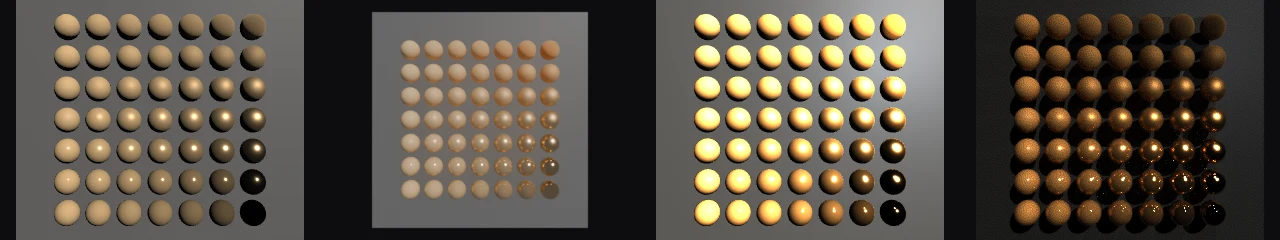
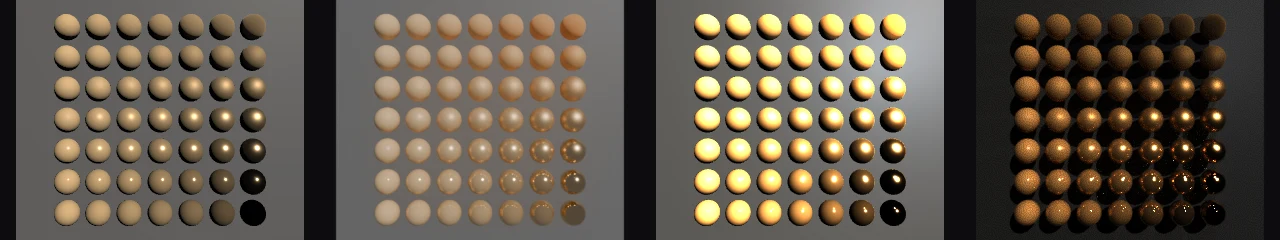
pathtracer: match the Cycles camera to X_ITE (fieldOfView on the vertical axis); e1 now outside the bound
Claude-Session: https://claude.ai/code/session_011hzQR3hNwmq38Q6GNMSks6

Changed region(s): [[0.25, 0.0, 0.5, 1.0]]

diff --git a/x3d.threejs/pathtracer/build_results.py b/x3d.threejs/pathtracer/build_results.py
@@ -24,13 +24,13 @@ for n, sky in SCENES.items():
     if DEMO: os.makedirs(f"{DEMO}/img", exist_ok=True); shutil.copy(f"{OUT}/results/strips/{n}.webp", f"{DEMO}/img/{n}.webp")
 out = {"scenes": res, "metric": "object-pixel FLIP (flip-evaluator 1.7, LDR), mean over pixels where X_ITE or the test picture differs from the sky colour; 320x240", "bound": "max(PT-X, PT-C) <= X-C + 0.05"}
 out["note"] = ("Rig: Chromium 153.0.8010.12 on SwiftShader (software Vulkan, no real GPU), three r187, three-gpu-pathtracer 0.0.28, three-mesh-bvh 0.9.18, X_ITE 16.6.0; Cycles from bpy 5.3.0 on CPU through the x3d.lab Blender worker (256 spp, OpenImageDenoise, film transparent, composited on the sky colour). "
-  "Path tracer 96 spp; two 96 spp runs of the Cornell box differ from each other by 0.055 (noise floor). Pass bound: max(PT-X, PT-C) <= X-C + 0.05, the Unreal lane's tier-1 bound. Cycles frames the first Viewpoint smaller than X_ITE does in these scenes, which inflates every number that involves it.")
+  "Path tracer 96 spp; two 96 spp runs of the Cornell box differ from each other by 0.055 (noise floor). Pass bound: max(PT-X, PT-C) <= X-C + 0.05, the Unreal lane's tier-1 bound. Cycles camera matched to X_ITE: sensor fit vertical, angle = the Viewpoint fieldOfView (cycles_job.py); before that patch Cycles drew a wider view and every Cycles number was inflated (e2 X-C 0.418 -> see table).")
 out["limits"] = [
   "No real-GPU timing: every number here comes from software Vulkan (SwiftShader), about one sample per second at 320 x 240. The samples per second this page shows are your own device's.",
   "The path tracer is a reference for light transport, not for X3D semantics: it has no ambient term, ignores the X3D radius cut-off, and turns every emissive surface into a lamp. X_ITE does none of that, so the two are expected to disagree there.",
   "Classic Material (Phong) surfaces are converted to rough dielectrics with diffuse x pi so they land on rho x I under pbr lights; that is a fit, and the indirect light they return is exaggerated by the same factor.",
   "FLIP here is object-pixel LDR FLIP on 8-bit pictures with no tone mapping, the same recipe as the Unreal lane's cell 10c; it says how far two pictures are, not which is right.",
-  "Cycles framing differs from X_ITE's, so the spread X-C is wider than the lighting alone would make it and the pass bound is looser than it looks. A Cycles run with an exact camera match is not done.",
+  "The Cycles camera is matched to X_ITE's vertical field of view (cycles_job.py patches one line of the Blender worker in memory); Cycles still goes through Blender's default view transform, which the X_ITE and path-traced pictures do not have, and that offset is not isolated.",
   "One camera per scene, one run per cell except the noise-floor pair; no confidence intervals."]
 json.dump(out, open(f"{OUT}/results/results.json", "w"), indent=1); shutil.rmtree(tmp); print(json.dumps(res, indent=1))
 

diff --git a/x3d.threejs/pathtracer/cycles_job.py b/x3d.threejs/pathtracer/cycles_job.py
@@ -1,0 +1,19 @@
+#!/usr/bin/env python3
+"""Run x3d.lab's Blender worker (render task) on the Leg E scenes with the camera matched to X_ITE.
+usage: cycles_job.py LAB_WORKER.py ADDON_SRC OUTDIR [SAMPLES]   (python with bpy, e.g. a venv with `pip install bpy`)
+The worker is read, not edited: one line is patched in memory. Why: the add-on sets the Blender camera from an X3D fieldOfView at the 16:9 default resolution; rendering at 320x240 then keeps the
+HORIZONTAL angle and widens the vertical one (e3: 0.7854 rad asked, 0.9127 drawn). X3D fieldOfView applies to the smaller picture axis (19775-1 23.4.2), vertical at 4:3, so the patch sets sensor_fit VERTICAL and angle = fieldOfView."""
+import sys, re, json, os, subprocess, tempfile
+WORKER, ADDON, OUT = sys.argv[1:4]; SAMPLES = int(sys.argv[4]) if len(sys.argv) > 4 else 256
+HERE = os.path.dirname(os.path.abspath(__file__)); SC = os.path.join(HERE, "scenes")
+src = open(WORKER).read(); old = 'framing = frame_camera(scn, t.get("camera", "viewpoint") == "viewpoint")'
+assert old in src, "worker line not found: update cycles_job.py"
+new = old + '\n    if t.get("fov") and scn.camera is not None:\n        scn.camera.data.sensor_fit = "VERTICAL"; scn.camera.data.angle = float(t["fov"])'
+work = tempfile.mkdtemp(); w = os.path.join(work, "worker.py"); open(w, "w").write(src.replace(old, new))
+os.makedirs(OUT, exist_ok=True); tasks = []
+for n in ["e1-pbr-grid", "e2-cornell-box", "e3-light-ladder"]:
+    fov = float(re.search(r'<Viewpoint[^>]*fieldOfView="([^"]+)"', open(f"{SC}/{n}.x3d").read()).group(1))
+    tasks.append({"id": n, "kind": "render", "src": f"{SC}/{n}.x3d", "out_png": f"{OUT}/{n}.cycles.png", "samples": SAMPLES, "resolution": [320, 240], "denoise": True, "film_transparent": True, "backend": "CPU", "fov": fov})
+job = os.path.join(work, "job.json"); json.dump({"addon_src": ADDON, "tasks": tasks}, open(job, "w"))
+r = subprocess.run([sys.executable, "-I", w, job], capture_output=True, text=True); open(f"{OUT}/worker.log", "w").write(r.stdout[-20000:])
+print("ok" if r.returncode == 0 else r.stderr[-500:])

diff --git a/x3d.threejs/pathtracer/README.md b/x3d.threejs/pathtracer/README.md
@@ -7,23 +7,23 @@ npm i                      # three, three-gpu-pathtracer, three-mesh-bvh, playwr
 CHROMIUM_EXECUTABLE=... node run-pt.js --out OUT --samples 96 --bounces 6 --xite scenes/e2-cornell-box.x3d   # --bounces 1 for the direct-only ladder
 python3 build_results.py PT6DIR PT1DIR CYCDIR OUT [DEMODIR]        # FLIP table + strips (+ the x3d.demo page)
 ```
-Cycles stills come from x3d.lab's `blender_worker.py` render task (bpy 5.3.0 CPU, 256 spp, OIDN, film transparent, 320x240). `scenes/` are the three Leg E scenes of x3d.lab (e1 PBR grid, e2 Cornell box, e3 light ladder).
+Cycles stills: `python cycles_job.py LAB/src/x3dlab/blender_worker.py ADDON/source OUT` (the lab worker with a fieldOfView patch;  bpy 5.3.0 CPU, 256 spp, OIDN, film transparent, 320x240). `scenes/` are the three Leg E scenes of x3d.lab (e1 PBR grid, e2 Cornell box, e3 light ladder).
 
 ## Result (object-pixel FLIP, lower is closer; Chromium 153 SwiftShader, X_ITE 16.6.0, 96 spp, 320x240; `results/results.json`)
 | scene | PT(6 b) vs X_ITE | PT vs Cycles | PT(1 b) vs X_ITE | raster vs X_ITE | Cycles vs X_ITE | bound | PT within | raster within |
 |---|---|---|---|---|---|---|---|---|
-| e1 PBR grid | 0.641 | 0.616 | 0.665 | 0.476 | 0.594 | 0.644 | yes | no |
-| e2 Cornell | 0.265 | 0.390 | 0.142 | 0.595 | 0.418 | 0.468 | yes | no |
-| e3 light ladder | 0.491 | 0.781 | 0.490 | 0.693 | 0.769 | 0.819 | yes | no |
+| e1 PBR grid | 0.641 | 0.743 | 0.664 | 0.476 | 0.299 | 0.349 | NO | no |
+| e2 Cornell | 0.265 | 0.380 | 0.142 | 0.595 | 0.468 | 0.517 | yes | no |
+| e3 light ladder | 0.490 | 0.750 | 0.490 | 0.693 | 0.705 | 0.755 | yes | no |
 
-Bound = the Unreal lane's tier-1 test, max(PT-X, PT-C) <= X-C + 0.05. Noise floor: two 96 spp Cornell runs differ by 0.055. Cycles frames these scenes smaller than X_ITE, which inflates every number that involves Cycles. No real-GPU timing (software Vulkan, ~1 s per sample at 320x240).
+Bound = the Unreal lane's tier-1 test, max(PT-X, PT-C) <= X-C + 0.05. Noise floor: two 96 spp Cornell runs differ by 0.055. The Cycles camera is matched to X_ITE's vertical field of view (`cycles_job.py`); an earlier run with the add-on's own framing drew a wider view and wrongly put all three scenes inside the bound (e1 failed once the camera was matched). No real-GPU timing (software Vulkan, ~1 s per sample at 320x240).
 
 ## Findings
+- With the camera matched, the path tracer is inside the bound on Cornell and (by 0.005) the light ladder, and outside it on the PBR grid (PT-C 0.743 vs bound 0.349). Suspected causes, not isolated: no ambient term, the shadows, how the bridge sets metals. The bridge raster is outside on all three.
 - 1 bounce lands on X_ITE (Cornell 0.142); the extra bounces are light X3D lighting does not carry, and they move the picture toward Cycles.
 - Emissive surfaces light the scene in a path tracer and do not in X_ITE (the Cornell ceiling panel).
-- The bridge's raster output sits outside the bound on all three scenes (it multiplies lights by pi; X_ITE lights PhysicalMaterial as rho/pi * I); the path tracer, with I unscaled, does not.
 - The bridge's SAI shim overwrites `window.X3D`: a page that also runs X_ITE must keep its own reference.
 - three-gpu-pathtracer 0.0.28 marks `WebGLPathTracer` deprecated in favour of `WebGPUPathTracer` (console warning); a WebGPU run is a next step.
 
-## Handoff (paused 15 Nov 09:27Z at the owner's request)
-Done: harness, adapter, scenes, results, strips, the x3d.demo page (live check in headless Chromium: 181 samples, X_ITE scene loaded, path-traced canvas non-black). Not done: x3d.docs chapter (strict template, id prefix PTR, linter), PR descriptions, a WebGPUPathTracer try, Cycles run with exact camera match, real-GPU timing (a Colab G4 cell would give it), the pick-sensor/three-mesh-bvh coordination note for the bridge thread.
+## Handoff (resumed 15 Nov 17:54Z)
+Done: harness, adapter, scenes, results with the matched Cycles camera, strips, the x3d.demo page (live check in headless Chromium: 181 samples, X_ITE scene loaded, path-traced canvas non-black). Not done: x3d.docs chapter (strict template, id prefix PTR, linter), a WebGPUPathTracer try, real-GPU timing (a Colab G4 cell would give it), isolating the e1 gap, the pick-sensor / three-mesh-bvh coordination note for the bridge thread.
